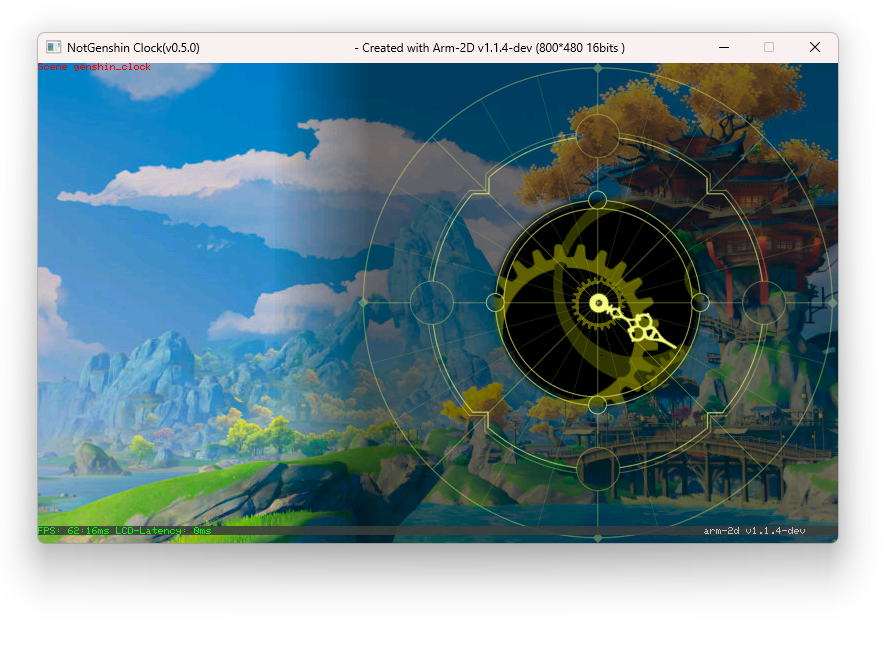
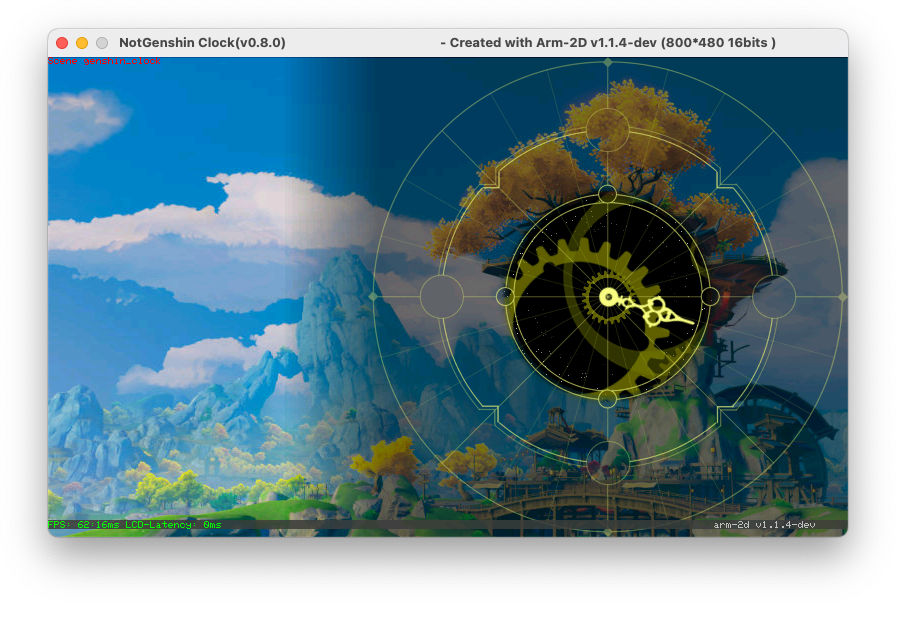
update readme

diff --git a/platform/Virtual_TFT_Port.c b/platform/Virtual_TFT_Port.c
@@ -103,7 +103,7 @@ static void monitor_sdl_init(void)
     SDL_SetEventFilter(quit_filter, NULL);
 
     window = SDL_CreateWindow(  
-                                "NotGenshin Clock(v0.7.0)"
+                                "NotGenshin Clock(v0.8.0)"
                                 "                                               - Created with Arm-2D v" 
                                 ARM_TO_STRING(ARM_2D_VERSION_MAJOR)
                                 "."

diff --git a/README.md b/README.md
@@ -1,5 +1,5 @@
-# NotGenshin Clock (v0.7.0)
-A Genshin Impact style of clock face created with [arm-2d](https://github.com/ARM-software/Arm-2D)
+# NotGenshin Clock (v0.8.0)
+This is a Genshin Impact style of clock face created with [arm-2d](https://github.com/ARM-software/Arm-2D). **You can use this project as a template of arm-2d development on PC (e.g. Windows, Linux and MacOS).**
 
 ![ClockFace](./doc/pictures/clock_face.png) 
 
@@ -15,11 +15,13 @@ The rest of the source code in this project adheres to the Apache 2.0 License.
 
 ## How to Build
 
+This example project currently support Windows, Linux and MacOS. Please follow the corresponding guidence for your environment.
 
+### 1 For Windows
 
-### 1. Clone the Repository
+#### 1.1 Clone the Repository
 
-First, you need to clone the project to your local machine. You can do this by running the following command in your terminal:
+First, please clone the project to your local machine. You can do this by running the following command in your terminal:
 
 ```bash
 git clone --recursive https://github.com/GorgonMeducer/NotGenshinClock.git
@@ -27,27 +29,110 @@ git clone --recursive https://github.com/GorgonMeducer/NotGenshinClock.git
 
 The `--recursive` option is used to clone all the submodules included in the project.
 
-### 2. Install GCC (mingw32)
+#### 1.2 Install GCC (mingw32) and Make
 
-Next, you need to download and install GCC. You **MUST** download the [latest mingw32](https://github.com/niXman/mingw-builds-binaries/releases/). For example [i686-13.1.0-release-posix-dwarf-ucrt-rt_v11-rev1.7z](https://github.com/niXman/mingw-builds-binaries/releases/download/13.1.0-rt_v11-rev1/i686-13.1.0-release-posix-dwarf-ucrt-rt_v11-rev1.7z)
+Second, please 
 
-Unzip the package and copy it to your desired location. 
+- download and install GCC. You **MUST** download the [latest mingw32](https://github.com/niXman/mingw-builds-binaries/releases/). For example [i686-13.1.0-release-posix-dwarf-ucrt-rt_v11-rev1.7z](https://github.com/niXman/mingw-builds-binaries/releases/download/13.1.0-rt_v11-rev1/i686-13.1.0-release-posix-dwarf-ucrt-rt_v11-rev1.7z) Unzip the package and copy it to your desired location. 
+- [download](https://gnuwin32.sourceforge.net/packages/make.htm) and install Make.
 
-**NOTE**: Make sure you have correctly set the **PATH** variable in windows environment for GCC. After installation, you may need to restart your computer to ensure the new environment variable settings take effect.
+**NOTE**: Make sure you have correctly set the **PATH** variable in windows environment for GCC and Make. After installation, you may need to restart your computer to ensure the new environment variable settings take effect.
 
 ![PathforGCC](./doc/pictures/path_for_gcc.png) 
 
 
 
-### 3. Open the Project
+#### 1.3 Open the Project
 
-Finally, you need to open the project in VS Code. You can do this by choosing "**Open Folder**" from the File menu in VS Code, and then selecting the folder of the `NotGenshinClock` project that you cloned.
+Finally, please open the project in VS Code. You can do this by choosing "**Open Workspace from File**"  the File menu in VS Code, and then selecting the workspace file `NotGenshinClock.code-workspace` in the `NotGenshinClock` folder that you have just cloned.
 
 In "**Run and Debug**" panel, you can run the project via "**build and run x86(32)**" or you can press "**F5**" to launch a debug session.
 
 ![BuildAndRun](./doc/pictures/build_and_run.png) 
 
 
+
+### 2 For Linux
+
+#### 2.1 Clone the Repository
+
+First, please clone the project to your local machine. You can do this by running the following command in your terminal:
+
+```bash
+git clone --recursive https://github.com/GorgonMeducer/NotGenshinClock.git
+```
+
+The `--recursive` option is used to clone all the submodules included in the project.
+
+
+
+#### 2.2 Install the required components
+
+Second, please install required modules with the following command:
+
+```sh
+sudo apt-get update && sudo apt-get install -y build-essential libsdl2-dev
+```
+
+
+
+#### 2.3 Open the Project
+
+Finally, please open the project in VS Code. You can do this by choosing "**Open Workspace from File**"  the File menu in VS Code, and then selecting the workspace file `NotGenshinClock.code-workspace` in the `NotGenshinClock` folder that you have just cloned.
+
+In "**Run and Debug**" panel, you can run the project via "**build and run x86(32)**" or you can press "**F5**" to launch a debug session.
+
+![BuildAndRun](./doc/pictures/build_and_run.png) 
+
+
+
+### 3 For MacOS
+
+#### 3.1 Clone the Repository
+
+First, please clone the project to your local machine. You can do this by running the following command in your terminal:
+
+```bash
+git clone --recursive https://github.com/GorgonMeducer/NotGenshinClock.git
+```
+
+The `--recursive` option is used to clone all the submodules included in the project.
+
+
+
+#### 3.2 Install the homebrew and sdl2
+
+Second, please open the terminal in MacOS and [install the homebrew](https://brew.sh/) with the following command:
+
+```sh
+/bin/bash -c "$(curl -fsSL https://raw.githubusercontent.com/Homebrew/install/HEAD/install.sh)"
+```
+
+After a successful installation, you should find an important message on the terminal that is similar to the following:
+
+![HomeBrewEnv](./doc/pictures/homebrewenv.png)
+
+Please copy the part in the red box and paste to the shell to "**add Howbrew to your PATH**". 
+
+**NOTE**: Your commandline will be different from mine as it contains the user name of the machine. 
+
+
+
+After that, please install sdl2 with the following command:
+
+```sh
+brew install sdl2
+```
+
+
+
+#### 3.3 Open the Project
+
+Finally, please open the project in VS Code. You can do this by choosing "**Open Workspace from File**"  the File menu in VS Code, and then selecting the workspace file `NotGenshinClock.code-workspace` in the `NotGenshinClock` folder that you have just cloned.
+
+In "**Run and Debug**" panel, you can run the project via "**build and run on macos (lldb)**" or you can press "**F5**" to launch a debug session.
+
+![BuildAndRunForMacOS](./doc/pictures/build_and_run_for_macos.png) 
 
 
 
